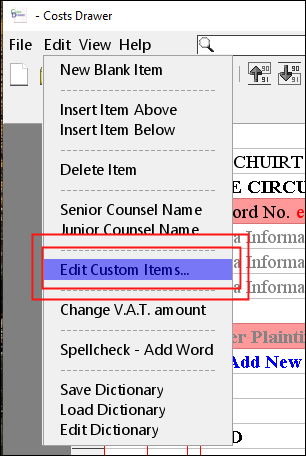
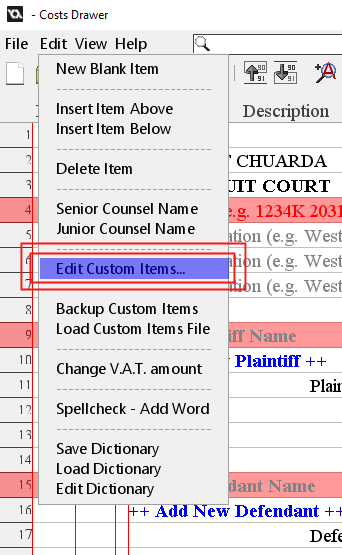
Getting the tutorial done

diff --git a/CustomItemsEditor.html b/CustomItemsEditor.html
@@ -71,10 +71,21 @@
 			area to see them. Double-clicking on one will insert it into the document at the current
 			position, just as with any other items.</p>
 			<p><img src="images/customitemseditor/image18.png"></p>
-			<p><b>FINAL NOTE:</b> Circuit Court and High Court have separate items lists, so if you want an item
+			<p><b>IMPORTANT NOTE:</b> Circuit Court and High Court have separate items lists, so if you want an item
 			to be available in both, you must add it to both manually. The Custom Items List you are
 			editing depends on the jurisdicition of the bill you are currently editing.</p>
+			<p></p>
 			<br/>
+			<h3>Saving and Loading Backups</h3>
+			<p>In addition to the ability to edit the custom items, you can also create a backup of the items so you
+			can	load them later or transfer them to another computer. These options are also in the Edit menu.</p>
+			<p><img src="images/customitemseditor/image19.png"></p>
+			<p>Click on "Backup Custom Items" and you will be prompted for a save location and file name.</p>
+			<p><img src="images/customitemseditor/image20.png"></p>
+			<p>Click on "Load Custom Items File" and you will first be asked if you want to backup your current list
+			of Custom Items first, <u><b>as the current list will be overwritten and automatically saved!</b></u></p>
+			<p><img src="images/customitemseditor/image21.png"></p>
+			<p>You can then go on to select the file to load as you would load any other file.</p>
 		</div>
 	</body>
 </html>
